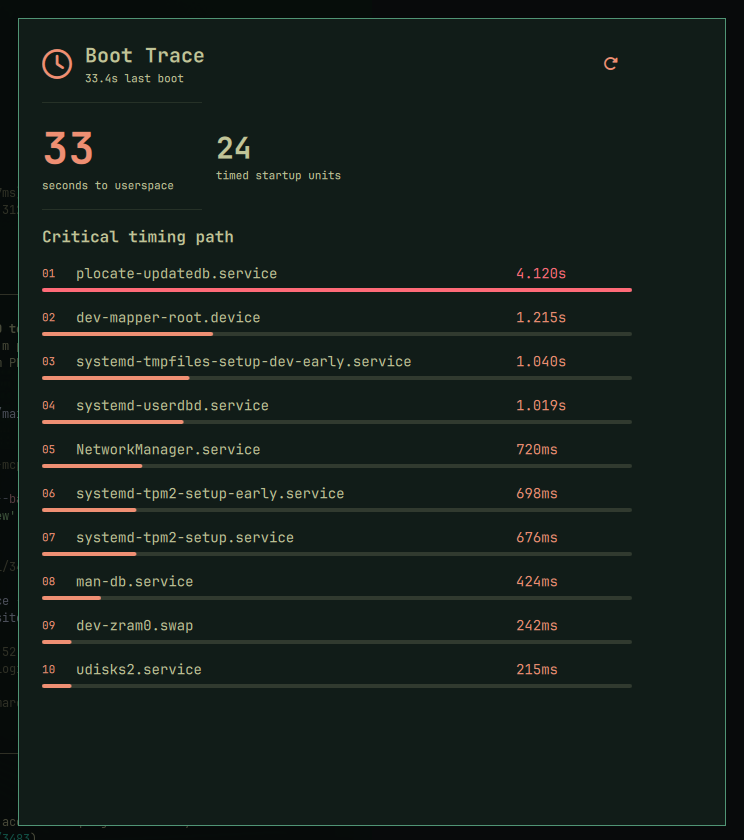
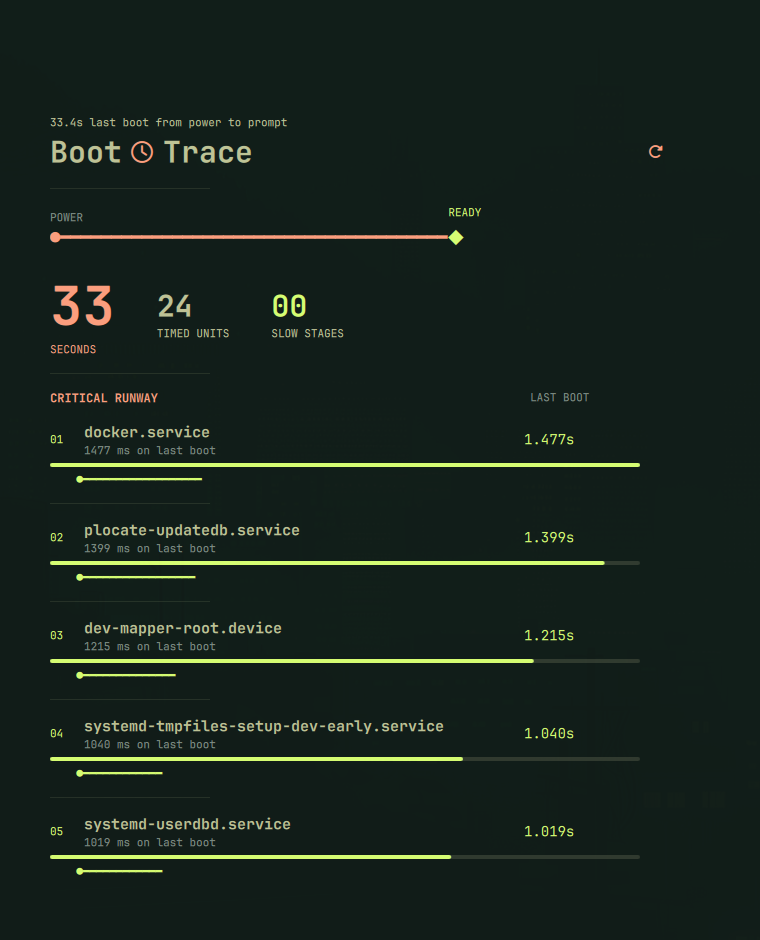
Redesign Boot Trace as a startup runway

diff --git a/main.rb b/main.rb
@@ -361,56 +361,84 @@ OmarchyUI.plugin do
   end
 
   bar_widget do
-    row spacing: 7 do
-      icon :clock, color: "#ef8f73"
-      text { state.snapshot.fetch("summary") }
+    row spacing: 6 do
+      icon :clock, size: 14, color: "#ff9f7f"
+      text "BOOT", style: :caption, color: "#ff9f7f"
+      text(style: :caption) { state.snapshot.fetch("summary") }
     end
     on_click { open_panel :boot_trace }
   end
 
   panel :boot_trace do
-    scroll width: 660, height: 760 do
+    scroll width: 660, height: 780 do
       dynamic id: :scene, spacing: 16 do
         entries = state.snapshot.fetch("items")
-        history = state.snapshot.fetch("history")
+        durations = entries.first(12).map { |entry| first_number.call(entry.fetch("meta", "")) }
+        max_duration = [durations.max.to_i, 1].max
+        slow_count = entries.count { |entry| entry.fetch("status", "") == "slow" }
 
-        row spacing: 12 do
-          icon :clock, size: 30, color: "#ef8f73"
-          column spacing: 2 do
-            text "Boot Trace", style: :heading, width: 500
-            text state.snapshot.fetch("summary"), style: :caption, width: 500
-          end
-          action_button :refresh, tooltip: "Refresh", foreground: "#ef8f73" do
-            async(&refresh)
+        column spacing: 2 do
+          text "#{state.snapshot.fetch("summary")} from power to prompt", style: :caption, width: 610
+          row spacing: 9 do
+            text "Boot", size: 30, bold: true
+            icon :clock, size: 22, color: "#ff9f7f"
+            text "Trace", size: 30, bold: true, width: 470
+            action_button :refresh, tooltip: "Retime last boot", foreground: "#ff9f7f" do
+              async(&refresh)
+            end
           end
         end
 
         separator
-        durations = entries.first(12).map { |entry| first_number.call(entry.fetch("meta", "")) }
-            max_duration = [durations.max.to_i, 1].max
-            row spacing: 42 do
-              column spacing: 0 do
-                text state.snapshot.fetch("score").to_s, size: 44, bold: true, color: "#ef8f73"
-                text "seconds to userspace", style: :caption
+        row spacing: 0 do
+          column spacing: 1 do
+            text "POWER", style: :caption, color: "#829088"
+            text "●━━━━━━━━━━━━━━━━━━━━━━━━━━━━━━━━━━━━━━", size: 17, color: "#ff9f7f"
+          end
+          column spacing: 1 do
+            text "READY", style: :caption, color: "#d8ff73"
+            text "◆", size: 25, bold: true, color: "#d8ff73"
+          end
+        end
+        row spacing: 42 do
+          column spacing: 0 do
+            text state.snapshot.fetch("score").to_s.rjust(2, "0"), size: 54, bold: true, color: "#ff9f7f"
+            text "SECONDS", style: :caption, color: "#ff9f7f"
+          end
+          column spacing: 0 do
+            text entries.length.to_s.rjust(2, "0"), size: 30, bold: true
+            text "TIMED UNITS", style: :caption
+          end
+          column spacing: 0 do
+            text slow_count.to_s.rjust(2, "0"), size: 30, bold: true,
+                 color: slow_count.zero? ? "#d8ff73" : "#ff9f7f"
+            text "SLOW STAGES", style: :caption
+          end
+        end
+        separator
+        row spacing: 10 do
+          text "CRITICAL RUNWAY", size: 12, bold: true, color: "#ff9f7f", width: 470
+          text "LAST BOOT", style: :caption, color: "#829088"
+        end
+
+        entries.first(10).each_with_index do |entry, index|
+          duration = first_number.call(entry.fetch("meta", ""))
+          stage_color = entry.fetch("status", "") == "slow" ? "#ff8b8b" : "#d8ff73"
+          column spacing: 5 do
+            row spacing: 10 do
+              text (index + 1).to_s.rjust(2, "0"), style: :caption, color: stage_color, width: 24
+              column spacing: 1 do
+                text entry.fetch("title"), width: 430, size: 15, bold: true, wrap: true
+                text entry.fetch("meta", ""), style: :caption, width: 430, color: "#829088"
               end
-              column spacing: 0 do
-                text entries.length.to_s, size: 30, bold: true
-                text "timed startup units", style: :caption
-              end
+              text entry.fetch("detail", ""), color: stage_color, width: 100
             end
-            separator
-            section_header "Critical timing path"
-            entries.first(10).each_with_index do |entry, index|
-              duration = first_number.call(entry.fetch("meta", ""))
-              column spacing: 5 do
-                row spacing: 10 do
-                  text (index + 1).to_s.rjust(2, "0"), style: :caption, color: "#ef8f73", width: 24
-                  text entry.fetch("title"), width: 430
-                  text entry.fetch("detail", ""), color: status_color.call(entry.fetch("status", "")), width: 90
-                end
-                progress(duration * 100 / max_duration, minimum: 0, maximum: 100, width: 590, height: 4, color: status_color.call(entry.fetch("status", "")))
-              end
-            end
+            progress(duration * 100 / max_duration, minimum: 0, maximum: 100,
+                     width: 590, height: 4, color: stage_color)
+            text "    ●#{"━" * [duration * 18 / max_duration, 1].max}", style: :caption, color: stage_color
+          end
+          separator unless index == [entries.length, 10].min - 1
+        end
       end
     end
   end
